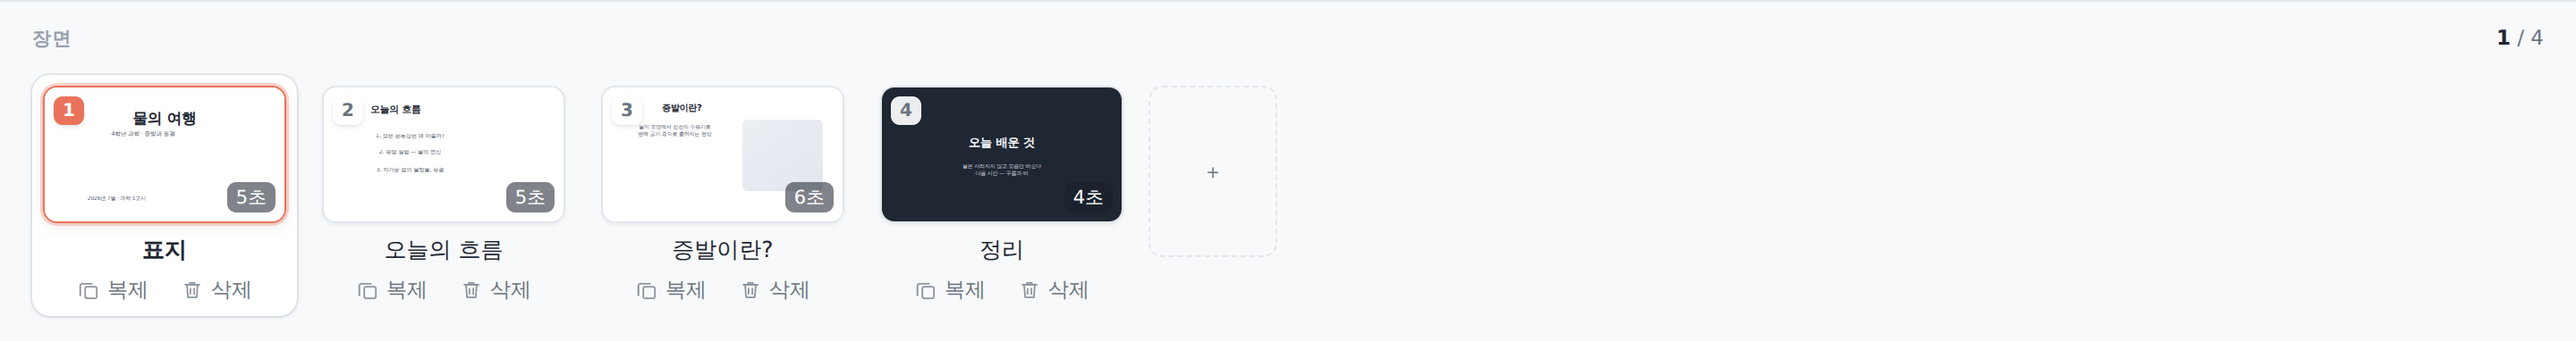
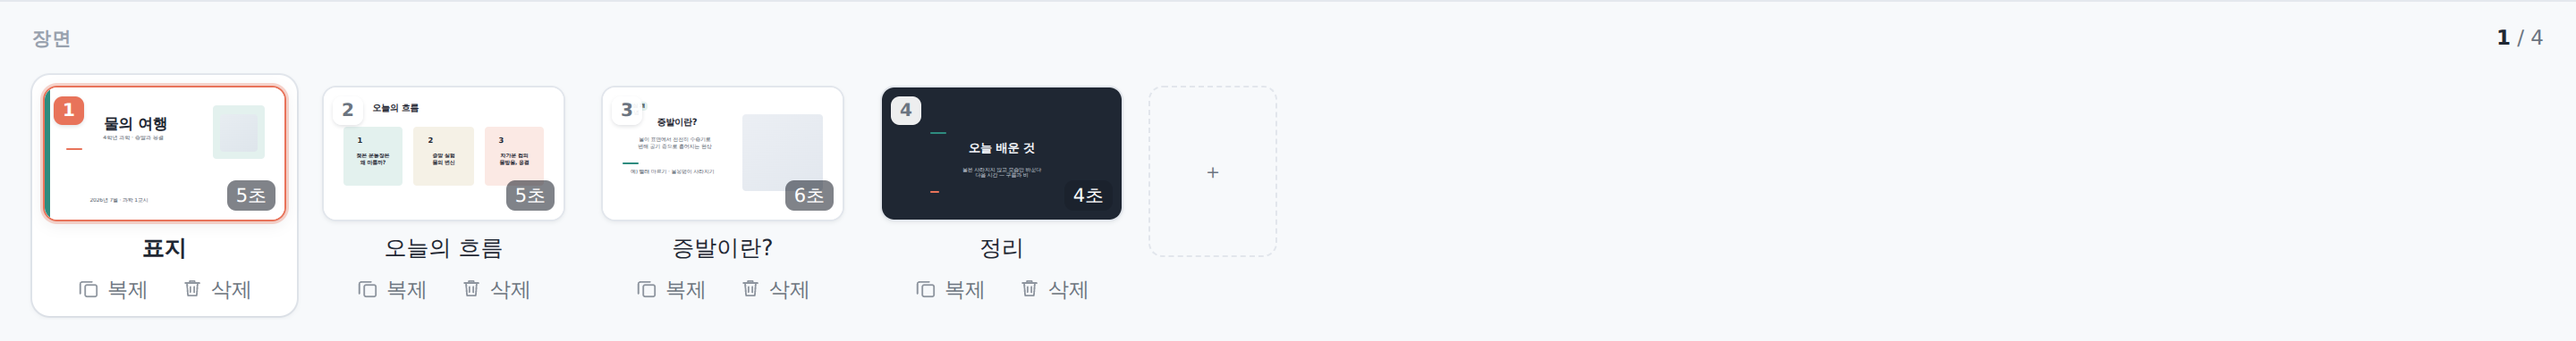
Product Polish Round 05 — Product Finish (기능 무변·레이아웃 유지). ① Canvas First: 좌 패널 224→204·우 236px 최소화, 캔버스 기본 표시폭 620→680px, 워크스페이스 패딩 재조정 — 첫 시선이 캔버스로 ② Premium Sample: image 요소 fill 렌더 지원(표시 계층만 — box 헬퍼)으로 리뷰 샘플을 실템플릿 수준 재제작: 표지(teal 세로 밴드+soft 카드+사진 아이콘+coral 언더라인), 흐름(3색 소프트 카드 1·2·3), 본문(핵심개념 태그 

diff --git a/maker-playground/data/sample.js b/maker-playground/data/sample.js
@@ -9,6 +9,7 @@
 window.MK_SAMPLE = (() => {
   const t = (x, y, w, size, text, weight) => ({ kind: 'text', x, y, w, size, text, weight: weight || 400 });
   const img = (x, y, w, h, label) => ({ kind: 'image', x, y, w, h, label });
+  const box = (x, y, w, h, fill) => ({ kind: 'image', x, y, w, h, label: '', fill });
 
   /* 좌표는 캔버스 기준 % (디자인 검토용 단순화) */
   const TEMPLATES = [
@@ -18,13 +19,22 @@ window.MK_SAMPLE = (() => {
       targetUser: 'teacher', gradeRange: '3-6', tags: ['수업', '발표'],
       scenes: [
         { id: 's1', name: '표지', width: 1280, height: 720, duration: 5, background: '#FFFFFF', transition: 'fade', order: 0,
-          elements: [t(8, 16, 84, 10, '물의 여행', 700), t(8, 32, 66, 4, '4학년 과학 · 증발과 응결'), t(8, 82, 44, 2.8, '2026년 7월 · 과학 1교시')] },
+          elements: [box(0, 0, 2.4, 100, '#2E8C7F'), box(70, 14, 22, 40, '#E3F1EE'), img(73.5, 20, 15, 28, ''),
+            t(9, 20, 58, 10, '물의 여행', 700), t(9, 36, 56, 3.8, '4학년 과학 · 증발과 응결'),
+            box(9, 46, 7, 1, '#E8735A'), t(9, 84, 44, 2.6, '2026년 7월 · 과학 1교시')] },
         { id: 's2', name: '오늘의 흐름', width: 1280, height: 720, duration: 5, background: '#FFFFFF', transition: 'fade', order: 1,
-          elements: [t(8, 12, 44, 6.5, '오늘의 흐름', 700), t(8, 34, 56, 3.8, '1. 젖은 운동장은 왜 마를까?'), t(8, 47, 56, 3.8, '2. 증발 실험 — 물의 변신'), t(8, 60, 56, 3.8, '3. 차가운 컵의 물방울, 응결')] },
+          elements: [t(8, 11, 44, 6, '오늘의 흐름', 700), box(8, 30, 25, 44, '#E3F1EE'), box(37.5, 30, 25, 44, '#F5F1E6'), box(67, 30, 25, 44, '#FBE9E4'),
+            t(11, 36, 8, 5, '1', 700), t(11, 50, 19, 3, '젖은 운동장은\n왜 마를까?', 600),
+            t(40.5, 36, 8, 5, '2', 700), t(40.5, 50, 19, 3, '증발 실험\n물의 변신', 600),
+            t(70, 36, 8, 5, '3', 700), t(70, 50, 19, 3, '차가운 컵의\n물방울, 응결', 600)] },
         { id: 's3', name: '증발이란?', width: 1280, height: 720, duration: 6, background: '#FFFFFF', transition: 'slide', order: 2,
-          elements: [t(8, 10, 50, 6, '증발이란?', 700), t(8, 28, 44, 3.4, '물이 표면에서 천천히 수증기로\n변해 공기 중으로 흩어지는 현상'), img(58, 24, 34, 54, '실험 사진')] },
+          elements: [box(8, 11, 11, 6, '#E3F1EE'), t(9.5, 12.6, 9, 2.6, '핵심 개념', 600),
+            t(8, 22, 46, 6, '증발이란?', 700), t(8, 38, 44, 3.4, '물이 표면에서 천천히 수증기로\n변해 공기 중으로 흩어지는 현상'),
+            box(8, 56, 7, 1, '#2E8C7F'), t(8, 62, 42, 2.8, '예) 빨래 마르기 · 물웅덩이 사라지기'),
+            img(58, 20, 34, 58, '실험 사진')] },
         { id: 's4', name: '정리', width: 1280, height: 720, duration: 4, background: '#1F2733', transition: 'fade', order: 3,
-          elements: [t(20, 36, 60, 8, '오늘 배운 것', 700), t(20, 58, 60, 3.2, '물은 사라지지 않고 모습만 바꾼다\n다음 시간 — 구름과 비')] },
+          elements: [box(20, 34, 7, 1.2, '#2E8C7F'), t(20, 40, 60, 8, '오늘 배운 것', 700),
+            t(20, 60, 60, 3.2, '물은 사라지지 않고 모습만 바꾼다\n다음 시간 — 구름과 비'), box(20, 78, 4, 1.2, '#E8735A')] },
       ],
     },
     {

diff --git a/maker-playground/index.html b/maker-playground/index.html
@@ -6,9 +6,9 @@
 <meta name="robots" content="noindex">
 <title>K-MAKER Design Playground</title>
 <link rel="stylesheet" href="https://cdn.jsdelivr.net/gh/orioncactus/pretendard@v1.3.9/dist/web/static/pretendard.min.css">
-<link rel="stylesheet" href="tokens.css?v=20260718b">
-<link rel="stylesheet" href="playground.css?v=20260718b">
-<link rel="stylesheet" href="components/button.css?v=20260718b">
+<link rel="stylesheet" href="tokens.css?v=20260718d">
+<link rel="stylesheet" href="playground.css?v=20260718d">
+<link rel="stylesheet" href="components/button.css?v=20260718d">
 </head>
 <body>
 <div class="pg-shell">
@@ -22,25 +22,25 @@
     <div class="pg-body" id="pgBody"></div>
   </main>
 </div>
-<script src="data/sample.js?v=20260718b"></script>
-<script src="data/templates.js?v=20260718b"></script>
-<script src="data/assets.js?v=20260718b"></script>
-<script src="data/projects.js?v=20260718b"></script>
-<script src="data/animations.js?v=20260718b"></script>
-<script src="components.js?v=20260718b"></script>
-<script src="screens/misc.js?v=20260718b"></script>
-<script src="screens/foundations.js?v=20260718b"></script>
-<script src="screens/components.js?v=20260718b"></script>
-<script src="screens/home.js?v=20260718b"></script>
-<script src="screens/create.js?v=20260718b"></script>
-<script src="screens/browser.js?v=20260718b"></script>
-<script src="screens/editor.js?v=20260718b"></script>
-<script src="screens/assets.js?v=20260718b"></script>
-<script src="screens/ai.js?v=20260718b"></script>
-<script src="screens/projects.js?v=20260718b"></script>
-<script src="screens/workspace.js?v=20260718b"></script>
-<script src="screens/builder.js?v=20260718b"></script>
-<script src="screens/animation.js?v=20260718b"></script>
-<script src="app.js?v=20260718b"></script>
+<script src="data/sample.js?v=20260718d"></script>
+<script src="data/templates.js?v=20260718d"></script>
+<script src="data/assets.js?v=20260718d"></script>
+<script src="data/projects.js?v=20260718d"></script>
+<script src="data/animations.js?v=20260718d"></script>
+<script src="components.js?v=20260718d"></script>
+<script src="screens/misc.js?v=20260718d"></script>
+<script src="screens/foundations.js?v=20260718d"></script>
+<script src="screens/components.js?v=20260718d"></script>
+<script src="screens/home.js?v=20260718d"></script>
+<script src="screens/create.js?v=20260718d"></script>
+<script src="screens/browser.js?v=20260718d"></script>
+<script src="screens/editor.js?v=20260718d"></script>
+<script src="screens/assets.js?v=20260718d"></script>
+<script src="screens/ai.js?v=20260718d"></script>
+<script src="screens/projects.js?v=20260718d"></script>
+<script src="screens/workspace.js?v=20260718d"></script>
+<script src="screens/builder.js?v=20260718d"></script>
+<script src="screens/animation.js?v=20260718d"></script>
+<script src="app.js?v=20260718d"></script>
 </body>
 </html>

diff --git a/maker-playground/screens/editor.js b/maker-playground/screens/editor.js
@@ -56,7 +56,7 @@ window.MK_SCREENS.editor = (() => {
   };
 
   /* ================= Center: Canvas (편집) — 확대/축소 ================= */
-  const BASE_W = 620;
+  const BASE_W = 680;
   const CanvasArea = (scene) => {
     const e = ed(), CW = Math.round(BASE_W * e.zoom), CH = Math.round(CW * scene.height / scene.width);
     const els = scene.elements.map((el, i) => {
@@ -69,7 +69,8 @@ window.MK_SCREENS.editor = (() => {
         return `<div class="ed-el ${sel}" data-el="${i}" style="left:${el.x}%;top:${el.y}%;width:${el.w}%;font-size:${fs}px;font-weight:${el.weight};line-height:1.3;color:${col};white-space:pre-wrap">${M().esc(el.text)}${hd}</div>`;
       }
       const hd2 = e.selEl === i ? '<i class="hd tl"></i><i class="hd tr"></i><i class="hd bl"></i><i class="hd br"></i><i class="hd tm"></i><i class="hd bm"></i><i class="hd ml"></i><i class="hd mr"></i><i class="hd rot"></i>' : '';
-      return `<div class="ed-el img-ph ${sel}" data-el="${i}" style="left:${el.x}%;top:${el.y}%;width:${el.w}%;height:${el.h}%">${M().esc(el.label)}${hd2}</div>`;
+      const fillCls = el.fill ? 'has-fill' : '', fillSty = el.fill ? `;background:${el.fill}` : '';
+      return `<div class="ed-el img-ph ${fillCls} ${sel}" data-el="${i}" style="left:${el.x}%;top:${el.y}%;width:${el.w}%;height:${el.h}%${fillSty}">${M().esc(el.label)}${hd2}</div>`;
     }).join('');
     return `<div class="ed-canvaswrap">
       <div class="ed-canvas" style="width:${CW}px;height:${CH}px;background:${scene.background}">${els}</div>
@@ -131,7 +132,7 @@ window.MK_SCREENS.editor = (() => {
         const col = dark ? ((el.weight || 400) >= 600 ? '#F2F5F9' : '#C7CFDA') : ((el.weight || 400) >= 600 ? '#1F2733' : '#525C6A');
         return `<span style="left:${el.x}%;top:${el.y}%;width:${el.w}%;font-size:${fs}px;font-weight:${el.weight || 400};color:${col}">${M().esc(el.text)}</span>`;
       }
-      return `<i style="left:${el.x}%;top:${el.y}%;width:${el.w}%;height:${el.h}%"></i>`;
+      return `<i style="left:${el.x}%;top:${el.y}%;width:${el.w}%;height:${el.h}%${el.fill ? ';background:' + el.fill + ';opacity:1' : ''}"></i>`;
     }).join('');
     return `<div class="ed-mini" style="background:${scene.background}" aria-hidden="true">${els}</div>`;
   };
@@ -253,7 +254,8 @@ window.MK_SCREENS.review = (() => {
       if (!e.doc || !e.review) {
         PG.loadEditorDoc('smp-pres-01');
         e.review = true;
-        e.selEl = 0;                                 /* 우측 속성 폼까지 즉시 노출 */
+        const firstText = PG.state.editor.doc.scenes[0].elements.findIndex((el) => el.kind === 'text');
+        e.selEl = firstText >= 0 ? firstText : 0;    /* 제목 선택 상태로 시작 — 우측 속성 폼 즉시 노출 */
         e.menu = e.menu || 'text';
       }
       return E().render(v);

diff --git a/maker-playground/playground.css b/maker-playground/playground.css
@@ -1500,3 +1500,41 @@ body.pg-chromeless .pg-shell { grid-template-columns: 1fr; }
 /* ---- 8. Motion Rule 통일 — 160ms ease-out ---- */
 .ed-adv summary::before { display: inline-block; transition: transform var(--ed-tr) var(--mk-mo-ease); }
 .ed-sceneops { transition: opacity var(--ed-tr) var(--mk-mo-ease); }
+
+/* ============================================================
+   Product Polish — Round 05  (Product Finish)
+   기능 무변·레이아웃 유지 — Canvas First·프리미엄 샘플·브랜드 일관.
+   ============================================================ */
+/* ---- 1. Canvas First — 패널 최소화·표시 영역 확대 ---- */
+.ed-mid { grid-template-columns: 64px 204px 1fr 236px; }
+@media (max-width: 1180px) { .ed-mid { grid-template-columns: 64px 0 1fr 236px; } }
+.ed-canvaswrap { padding: var(--mk-sp-7); }
+.ed-detail { padding: var(--mk-sp-4) var(--mk-sp-3); }
+.ed-props { padding: var(--mk-sp-4) var(--mk-sp-3) var(--mk-sp-6); }
+
+/* ---- 2·6. Premium Sample — 컬러 영역·카드 렌더 ---- */
+.ed-el.img-ph.has-fill { box-shadow: none; border-radius: 8px; }
+.ed-el.img-ph.has-fill::before { display: none; }
+.ed-el.img-ph:not(.has-fill) { border-radius: 8px; }
+.ed-mini i { border-radius: 2px; }
+
+/* ---- 6. Showcase — 첫 페인트는 항상 선명 (등장 모션은 요소 인터랙션으로 한정) ---- */
+
+/* ---- 3. Brand Identity — 회색 속 포인트 일관 (teal=활성/포커스, coral=선택/타임라인) ---- */
+.ed-toolbar .mk-tab { transition: background var(--ed-tr) var(--mk-mo-ease), color var(--ed-tr) var(--mk-mo-ease), box-shadow var(--ed-tr) var(--mk-mo-ease); }
+.ed-toolbar .mk-tab.on { color: var(--mk-teal); }
+.ed--review .savestate::before { background: var(--mk-coral); }
+.ed-zoom button[data-zoom="fit"]:hover { color: var(--mk-teal); }
+.ed-playbar .track i, .ed-playbar .track i::after { background: var(--mk-coral); }
+
+/* ---- 4. Icon Polish — 옵티컬 정렬·hover ---- */
+.ed-mainmenu button .ico svg { transition: transform var(--ed-tr) var(--mk-mo-ease); }
+.ed-mainmenu button:hover .ico svg { transform: translateY(-.5px); }
+.ed-sceneops button:hover svg { opacity: 1; }
+.ed-tl-tr:hover { color: var(--mk-teal); border-color: var(--mk-teal); }
+.ed-tl-tr { transition: color var(--ed-tr) var(--mk-mo-ease), border-color var(--ed-tr) var(--mk-mo-ease); }
+
+/* ---- 5. Motion Polish — 잔여 전이 통일 (150~180ms ease-out) ---- */
+.ed-zoom { transition: box-shadow var(--ed-tr) var(--mk-mo-ease); }
+.ed-props .mk-input, .ed-detail .ph-item, .ed-adv summary { transition-duration: var(--ed-tr); }
+
